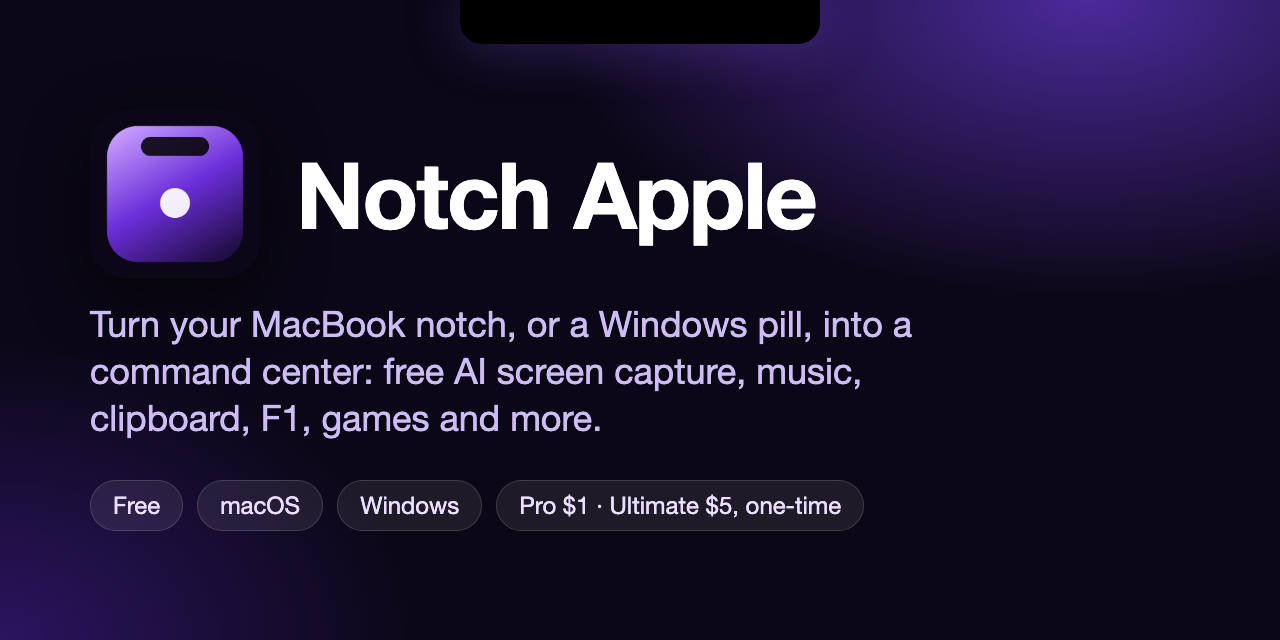
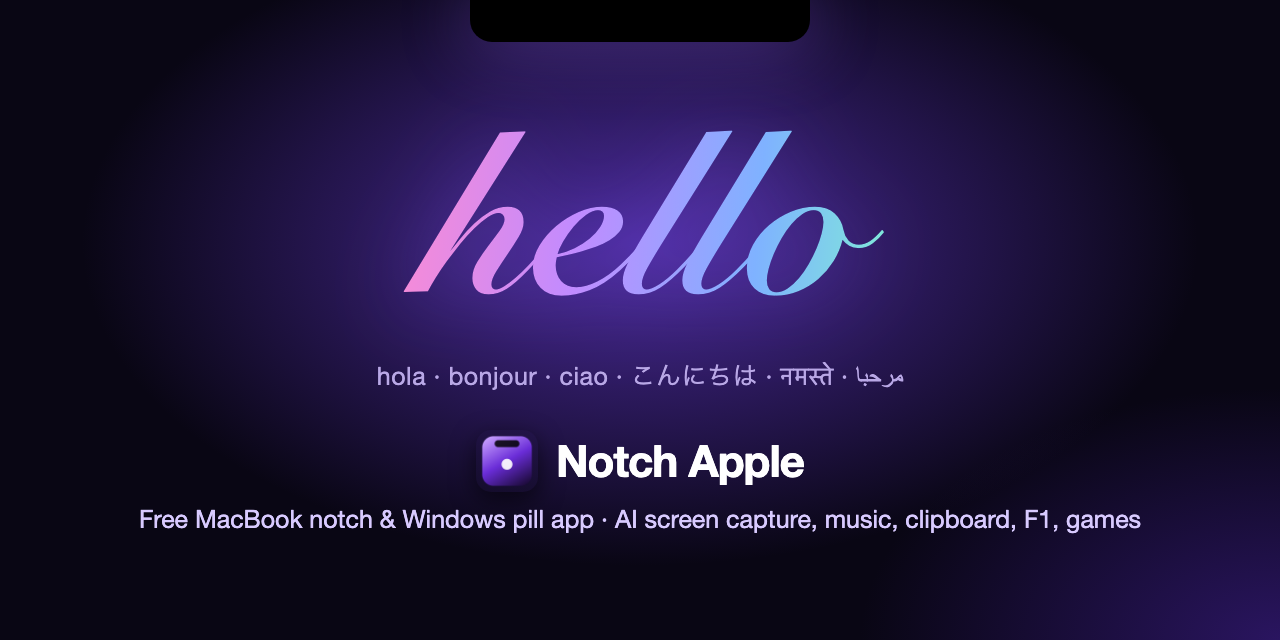
Link preview: a hello card (new file name so chat apps stop showing the old screenshot)

diff --git a/web/index.html b/web/index.html
@@ -9,7 +9,7 @@
 <meta property="og:site_name" content="Notch Apple">
 <meta property="og:title" content="Notch Apple: Free MacBook Notch App with AI">
 <meta property="og:description" content="Turn your MacBook notch, or a Windows pill, into a command center: capture your screen for free AI answers, plus music, F1, clipboard and 30+ more tools.">
-<meta property="og:image" content="https://adityajaindxb.github.io/NotchApples/assets/og.jpg">
+<meta property="og:image" content="https://adityajaindxb.github.io/NotchApples/assets/og-hello.jpg">
 <meta property="og:image:width" content="1200">
 <meta property="og:image:height" content="627">
 <meta property="og:image:alt" content="Notch Apple answering a maths question in the MacBook notch">
@@ -18,12 +18,12 @@
 <meta name="twitter:card" content="summary_large_image">
 <meta name="twitter:title" content="Notch Apple: Free MacBook Notch App with AI">
 <meta name="twitter:description" content="Turn your MacBook notch, or a Windows pill, into a command center: capture your screen for free AI answers, plus music, F1, clipboard and 30+ more tools.">
-<meta name="twitter:image" content="https://adityajaindxb.github.io/NotchApples/assets/og.jpg">
+<meta name="twitter:image" content="https://adityajaindxb.github.io/NotchApples/assets/og-hello.jpg">
 <meta name="robots" content="index,follow,max-image-preview:large,max-snippet:-1,max-video-preview:-1">
 <link rel="canonical" href="https://adityajaindxb.github.io/NotchApples/">
 <link rel="alternate" type="text/plain" href="llms.txt" title="Notch Apple in plain text, for AI assistants">
 <meta name="keywords" content="MacBook notch app, Mac notch, notch apple, Windows notch, Windows notch app, Dynamic Island for Mac, Dynamic Island for Windows, notch widgets, now playing notch, free notch app">
-<script type="application/ld+json">{"@context":"https://schema.org","@graph":[{"@type":"WebSite","@id":"https://adityajaindxb.github.io/NotchApples/#website","url":"https://adityajaindxb.github.io/NotchApples/","name":"Notch Apple","alternateName":["Notch Apple for Mac","Notch Apple for Windows"],"inLanguage":"en","publisher":{"@id":"https://adityajaindxb.github.io/NotchApples/#org"}},{"@type":"Organization","@id":"https://adityajaindxb.github.io/NotchApples/#org","name":"Notch Apple","url":"https://adityajaindxb.github.io/NotchApples/","logo":"https://adityajaindxb.github.io/NotchApples/assets/icon-180.png","sameAs":["https://github.com/AdityaJainDXB/NotchApples"]},{"@type":"SoftwareApplication","@id":"https://adityajaindxb.github.io/NotchApples/#app","name":"Notch Apple","alternateName":"Notch Apple: MacBook and Windows notch app","url":"https://adityajaindxb.github.io/NotchApples/","description":"A free, source-available app that turns the MacBook notch (and a Windows notch pill) into a command center: capture the screen and ask AI to solve, explain or translate it, plus music, live sports and F1, clipboard history, window snapping and about thirty more tools.","applicationCategory":"UtilitiesApplication","applicationSubCategory":"Productivity","operatingSystem":"macOS 14 or newer, Windows 10, Windows 11","isAccessibleForFree":true,"image":"https://adityajaindxb.github.io/NotchApples/assets/og.jpg","screenshot":"https://adityajaindxb.github.io/NotchApples/assets/og.jpg","downloadUrl":"https://github.com/AdityaJainDXB/NotchApples/releases/latest","installUrl":"https://github.com/AdityaJainDXB/NotchApples/releases/latest","license":"https://github.com/AdityaJainDXB/NotchApples/blob/main/LICENSE","publisher":{"@id":"https://adityajaindxb.github.io/NotchApples/#org"},"inLanguage":"en","featureList":["Capture anything on screen and solve, explain, translate or summarise it with AI","Free AI providers or fully local Ollama","Music and Now Playing controls","Live sports scores and F1 timing","Clipboard history","Window snapping","About thirty more optional tools"],"offers":[{"@type":"Offer","name":"Free","price":"0","priceCurrency":"USD","url":"https://adityajaindxb.github.io/NotchApples/#download"},{"@type":"Offer","name":"Pro (one-time)","price":"1","priceCurrency":"USD","url":"https://adityajaindxb.github.io/NotchApples/pro.html"},{"@type":"Offer","name":"Ultimate (one-time)","price":"5","priceCurrency":"USD","url":"https://adityajaindxb.github.io/NotchApples/pro.html"}]},{"@type":"FAQPage","@id":"https://adityajaindxb.github.io/NotchApples/#faq","mainEntity":[{"@type":"Question","name":"What is Notch Apple?","acceptedAnswer":{"@type":"Answer","text":"Notch Apple is a free, source-available app for macOS 14 or newer and Windows 10 or 11 that turns the MacBook notch (or a small pill at the top of the screen) into a command center. Capture anything on screen and ask AI to solve, explain or translate it, and keep music, live sports and F1, clipboard history, window snapping and about thirty more tools beside it."}},{"@type":"Question","name":"Which Macs and Windows PCs does it run on?","acceptedAnswer":{"@type":"Answer","text":"Any Mac running macOS 14 or newer (a notch is not required) and any 64-bit PC running Windows 10 or 11. The Windows version is in beta."}},{"@type":"Question","name":"Is it like the iPhone's Dynamic Island?","acceptedAnswer":{"@type":"Answer","text":"In spirit, yes: the notch grows for live activities such as music, timers, charging and F1 positions, and springs open into full panels. Notch Apple is an independent app and is not made by or affiliated with Apple."}},{"@type":"Question","name":"Does it work on Macs without a notch?","acceptedAnswer":{"@type":"Answer","text":"Yes. Notch Apple shows a small pill at the top centre of the screen that works exactly the same way."}},{"@type":"Question","name":"Is it really free?","acceptedAnswer":{"@type":"Answer","text":"Yes: the core app is free, and the code is source-available (you can read and build it, but not resell it or unlock the paid features without a key). AI uses free providers by default (Gemini, Groq, OpenRouter's free models, or Ollama on your Mac). Pro ($1) and Ultimate ($5) are optional, one-time purchases."}},{"@type":"Question","name":"How do I open and close it?","acceptedAnswer":{"@type":"Answer","text":"Click the notch, press ⌃⌥N in any app, or drag a file onto it. Press Esc or click elsewhere to close. You can also turn on \"open on hover\" in Settings → General."}},{"@type":"Question","name":"Why does window snapping need Accessibility?","acceptedAnswer":{"@type":"Answer","text":"Moving other apps' windows is only possible through macOS Accessibility. Notch Apple uses it only to read and set window positions."}},{"@type":"Question","name":"What does capture need?","acceptedAnswer":{"@type":"Answer","text":"Screen Recording permission, asked the first time you press ⌃⌥S. macOS applies it after Notch Apple restarts."}},{"@type":"Question","name":"Which AI should I use?","acceptedAnswer":{"@type":"Answer","text":"Google Gemini is free and reads images. For complete privacy, install Ollama and run ollama pull gemma3:4b: answers are made on your Mac, offline. Settings → AI → Test connection checks your setup."}},{"@type":"Question","name":"How do updates work?","acceptedAnswer":{"@type":"Answer","text":"Notch Apple checks GitHub for the latest release and shows \"Update available\". Choose Update or Not now, or turn off automatic checks in Settings → Updates."}},{"@type":"Question","name":"Can I make it smaller?","acceptedAnswer":{"@type":"Answer","text":"Turn off modules you don't need in Settings → Modules. Older, smaller builds are listed in the README."}}]}]}</script>
+<script type="application/ld+json">{"@context":"https://schema.org","@graph":[{"@type":"WebSite","@id":"https://adityajaindxb.github.io/NotchApples/#website","url":"https://adityajaindxb.github.io/NotchApples/","name":"Notch Apple","alternateName":["Notch Apple for Mac","Notch Apple for Windows"],"inLanguage":"en","publisher":{"@id":"https://adityajaindxb.github.io/NotchApples/#org"}},{"@type":"Organization","@id":"https://adityajaindxb.github.io/NotchApples/#org","name":"Notch Apple","url":"https://adityajaindxb.github.io/NotchApples/","logo":"https://adityajaindxb.github.io/NotchApples/assets/icon-180.png","sameAs":["https://github.com/AdityaJainDXB/NotchApples"]},{"@type":"SoftwareApplication","@id":"https://adityajaindxb.github.io/NotchApples/#app","name":"Notch Apple","alternateName":"Notch Apple: MacBook and Windows notch app","url":"https://adityajaindxb.github.io/NotchApples/","description":"A free, source-available app that turns the MacBook notch (and a Windows notch pill) into a command center: capture the screen and ask AI to solve, explain or translate it, plus music, live sports and F1, clipboard history, window snapping and about thirty more tools.","applicationCategory":"UtilitiesApplication","applicationSubCategory":"Productivity","operatingSystem":"macOS 14 or newer, Windows 10, Windows 11","isAccessibleForFree":true,"image":"https://adityajaindxb.github.io/NotchApples/assets/og-hello.jpg","screenshot":"https://adityajaindxb.github.io/NotchApples/assets/og-hello.jpg","downloadUrl":"https://github.com/AdityaJainDXB/NotchApples/releases/latest","installUrl":"https://github.com/AdityaJainDXB/NotchApples/releases/latest","license":"https://github.com/AdityaJainDXB/NotchApples/blob/main/LICENSE","publisher":{"@id":"https://adityajaindxb.github.io/NotchApples/#org"},"inLanguage":"en","featureList":["Capture anything on screen and solve, explain, translate or summarise it with AI","Free AI providers or fully local Ollama","Music and Now Playing controls","Live sports scores and F1 timing","Clipboard history","Window snapping","About thirty more optional tools"],"offers":[{"@type":"Offer","name":"Free","price":"0","priceCurrency":"USD","url":"https://adityajaindxb.github.io/NotchApples/#download"},{"@type":"Offer","name":"Pro (one-time)","price":"1","priceCurrency":"USD","url":"https://adityajaindxb.github.io/NotchApples/pro.html"},{"@type":"Offer","name":"Ultimate (one-time)","price":"5","priceCurrency":"USD","url":"https://adityajaindxb.github.io/NotchApples/pro.html"}]},{"@type":"FAQPage","@id":"https://adityajaindxb.github.io/NotchApples/#faq","mainEntity":[{"@type":"Question","name":"What is Notch Apple?","acceptedAnswer":{"@type":"Answer","text":"Notch Apple is a free, source-available app for macOS 14 or newer and Windows 10 or 11 that turns the MacBook notch (or a small pill at the top of the screen) into a command center. Capture anything on screen and ask AI to solve, explain or translate it, and keep music, live sports and F1, clipboard history, window snapping and about thirty more tools beside it."}},{"@type":"Question","name":"Which Macs and Windows PCs does it run on?","acceptedAnswer":{"@type":"Answer","text":"Any Mac running macOS 14 or newer (a notch is not required) and any 64-bit PC running Windows 10 or 11. The Windows version is in beta."}},{"@type":"Question","name":"Is it like the iPhone's Dynamic Island?","acceptedAnswer":{"@type":"Answer","text":"In spirit, yes: the notch grows for live activities such as music, timers, charging and F1 positions, and springs open into full panels. Notch Apple is an independent app and is not made by or affiliated with Apple."}},{"@type":"Question","name":"Does it work on Macs without a notch?","acceptedAnswer":{"@type":"Answer","text":"Yes. Notch Apple shows a small pill at the top centre of the screen that works exactly the same way."}},{"@type":"Question","name":"Is it really free?","acceptedAnswer":{"@type":"Answer","text":"Yes: the core app is free, and the code is source-available (you can read and build it, but not resell it or unlock the paid features without a key). AI uses free providers by default (Gemini, Groq, OpenRouter's free models, or Ollama on your Mac). Pro ($1) and Ultimate ($5) are optional, one-time purchases."}},{"@type":"Question","name":"How do I open and close it?","acceptedAnswer":{"@type":"Answer","text":"Click the notch, press ⌃⌥N in any app, or drag a file onto it. Press Esc or click elsewhere to close. You can also turn on \"open on hover\" in Settings → General."}},{"@type":"Question","name":"Why does window snapping need Accessibility?","acceptedAnswer":{"@type":"Answer","text":"Moving other apps' windows is only possible through macOS Accessibility. Notch Apple uses it only to read and set window positions."}},{"@type":"Question","name":"What does capture need?","acceptedAnswer":{"@type":"Answer","text":"Screen Recording permission, asked the first time you press ⌃⌥S. macOS applies it after Notch Apple restarts."}},{"@type":"Question","name":"Which AI should I use?","acceptedAnswer":{"@type":"Answer","text":"Google Gemini is free and reads images. For complete privacy, install Ollama and run ollama pull gemma3:4b: answers are made on your Mac, offline. Settings → AI → Test connection checks your setup."}},{"@type":"Question","name":"How do updates work?","acceptedAnswer":{"@type":"Answer","text":"Notch Apple checks GitHub for the latest release and shows \"Update available\". Choose Update or Not now, or turn off automatic checks in Settings → Updates."}},{"@type":"Question","name":"Can I make it smaller?","acceptedAnswer":{"@type":"Answer","text":"Turn off modules you don't need in Settings → Modules. Older, smaller builds are listed in the README."}}]}]}</script>
 <meta name="theme-color" content="#09080d">
 <meta name="color-scheme" content="dark">
 <link rel="icon" href="assets/icon-48.png" type="image/png" sizes="48x48">

diff --git a/web/pro.html b/web/pro.html
@@ -10,7 +10,7 @@
 <meta property="og:site_name" content="Notch Apple">
 <meta property="og:title" content="Notch Apple Pricing: Free, Pro $1 and Ultimate $5, One-Time">
 <meta property="og:description" content="Notch Apple is free. Pro is $1 once and Ultimate $5 once: no subscription, no account, lifetime 1.x updates. Pay in Bitcoin, Ethereum, Solana or Litecoin.">
-<meta property="og:image" content="https://adityajaindxb.github.io/NotchApples/assets/og.jpg">
+<meta property="og:image" content="https://adityajaindxb.github.io/NotchApples/assets/og-hello.jpg">
 <meta property="og:image:width" content="1200">
 <meta property="og:image:height" content="627">
 <meta property="og:image:alt" content="Notch Apple answering a maths question in the MacBook notch">
@@ -19,7 +19,7 @@
 <meta name="twitter:card" content="summary_large_image">
 <meta name="twitter:title" content="Notch Apple Pricing: Free, Pro $1 and Ultimate $5, One-Time">
 <meta name="twitter:description" content="Notch Apple is free. Pro is $1 once and Ultimate $5 once: no subscription, no account, lifetime 1.x updates. Pay in Bitcoin, Ethereum, Solana or Litecoin.">
-<meta name="twitter:image" content="https://adityajaindxb.github.io/NotchApples/assets/og.jpg">
+<meta name="twitter:image" content="https://adityajaindxb.github.io/NotchApples/assets/og-hello.jpg">
 <link rel="icon" href="assets/icon-48.png" type="image/png" sizes="48x48">
 <link rel="apple-touch-icon" href="assets/icon-180.png">
 <link rel="preload" href="assets/fonts/geist-latin.woff2" as="font" type="font/woff2" crossorigin>

diff --git a/web/support.html b/web/support.html
@@ -9,7 +9,7 @@
 <meta property="og:site_name" content="Notch Apple">
 <meta property="og:title" content="Get Help, Report a Problem or Send an Idea | Notch Apple">
 <meta property="og:description" content="Report a problem, suggest a feature or ask a question. No GitHub account or sign-in needed: it goes straight to the people who build Notch Apple.">
-<meta property="og:image" content="https://adityajaindxb.github.io/NotchApples/assets/og.jpg">
+<meta property="og:image" content="https://adityajaindxb.github.io/NotchApples/assets/og-hello.jpg">
 <meta property="og:image:width" content="1200">
 <meta property="og:image:height" content="627">
 <meta property="og:image:alt" content="Notch Apple answering a maths question in the MacBook notch">
@@ -18,7 +18,7 @@
 <meta name="twitter:card" content="summary_large_image">
 <meta name="twitter:title" content="Get Help, Report a Problem or Send an Idea | Notch Apple">
 <meta name="twitter:description" content="Report a problem, suggest a feature or ask a question. No GitHub account or sign-in needed: it goes straight to the people who build Notch Apple.">
-<meta name="twitter:image" content="https://adityajaindxb.github.io/NotchApples/assets/og.jpg">
+<meta name="twitter:image" content="https://adityajaindxb.github.io/NotchApples/assets/og-hello.jpg">
 <style>
 :root{color-scheme:dark;--bg:#09080d;--panel:#13111a;--line:rgba(255,255,255,.09);--tx:#f3f1f8;--mut:#a7a2b5;--ac:#9b7bff;--ok:#6ee7a8;--warn:#ffd28a}
 *{box-sizing:border-box}

diff --git a/web/community.html b/web/community.html
@@ -9,7 +9,7 @@
 <meta property="og:site_name" content="Notch Apple">
 <meta property="og:title" content="What People Are Asking For | Notch Apple">
 <meta property="og:description" content="The most-requested ideas, problems and praise from Notch Apple users, gathered into themes by the people who build the app.">
-<meta property="og:image" content="https://adityajaindxb.github.io/NotchApples/assets/og.jpg">
+<meta property="og:image" content="https://adityajaindxb.github.io/NotchApples/assets/og-hello.jpg">
 <meta property="og:image:width" content="1200">
 <meta property="og:image:height" content="627">
 <meta property="og:image:alt" content="Notch Apple answering a maths question in the MacBook notch">
@@ -18,7 +18,7 @@
 <meta name="twitter:card" content="summary_large_image">
 <meta name="twitter:title" content="What People Are Asking For | Notch Apple">
 <meta name="twitter:description" content="The most-requested ideas, problems and praise from Notch Apple users, gathered into themes by the people who build the app.">
-<meta name="twitter:image" content="https://adityajaindxb.github.io/NotchApples/assets/og.jpg">
+<meta name="twitter:image" content="https://adityajaindxb.github.io/NotchApples/assets/og-hello.jpg">
 <style>
 :root{color-scheme:dark;--bg:#09080d;--panel:#13111a;--line:rgba(255,255,255,.09);--tx:#f3f1f8;--mut:#a7a2b5;--ac:#9b7bff;--ok:#6ee7a8;--warn:#ffd28a}
 *{box-sizing:border-box}

diff --git a/web/terms.html b/web/terms.html
@@ -10,7 +10,7 @@
 <meta property="og:site_name" content="Notch Apple">
 <meta property="og:title" content="Terms, Refunds and Privacy | Notch Apple">
 <meta property="og:description" content="Terms of sale, how refunds work, and the privacy policy for Notch Apple Pro and Ultimate keys.">
-<meta property="og:image" content="https://adityajaindxb.github.io/NotchApples/assets/og.jpg">
+<meta property="og:image" content="https://adityajaindxb.github.io/NotchApples/assets/og-hello.jpg">
 <meta property="og:image:width" content="1200">
 <meta property="og:image:height" content="627">
 <meta property="og:image:alt" content="Notch Apple answering a maths question in the MacBook notch">
@@ -19,7 +19,7 @@
 <meta name="twitter:card" content="summary_large_image">
 <meta name="twitter:title" content="Terms, Refunds and Privacy | Notch Apple">
 <meta name="twitter:description" content="Terms of sale, how refunds work, and the privacy policy for Notch Apple Pro and Ultimate keys.">
-<meta name="twitter:image" content="https://adityajaindxb.github.io/NotchApples/assets/og.jpg">
+<meta name="twitter:image" content="https://adityajaindxb.github.io/NotchApples/assets/og-hello.jpg">
 <link rel="icon" href="assets/icon-48.png" type="image/png" sizes="48x48">
 <link rel="apple-touch-icon" href="assets/icon-180.png">
 <link rel="preload" href="assets/fonts/geist-latin.woff2" as="font" type="font/woff2" crossorigin>
